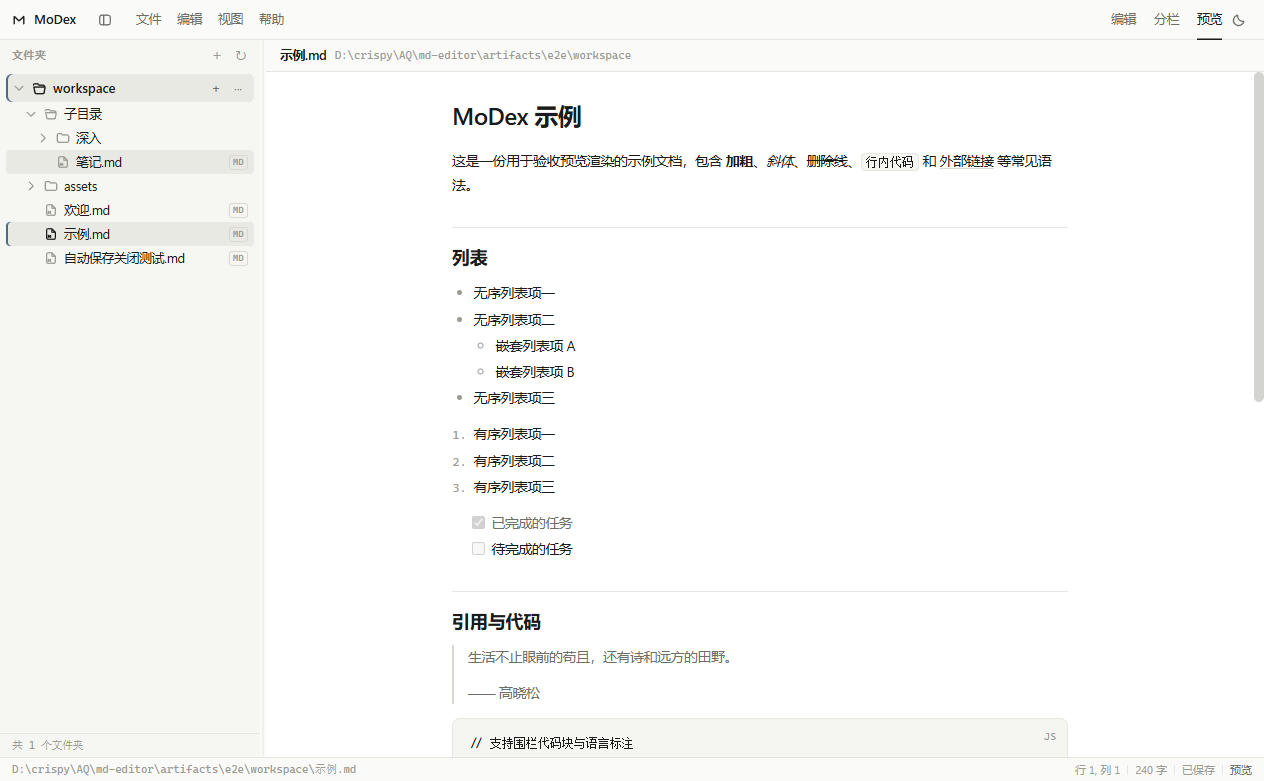
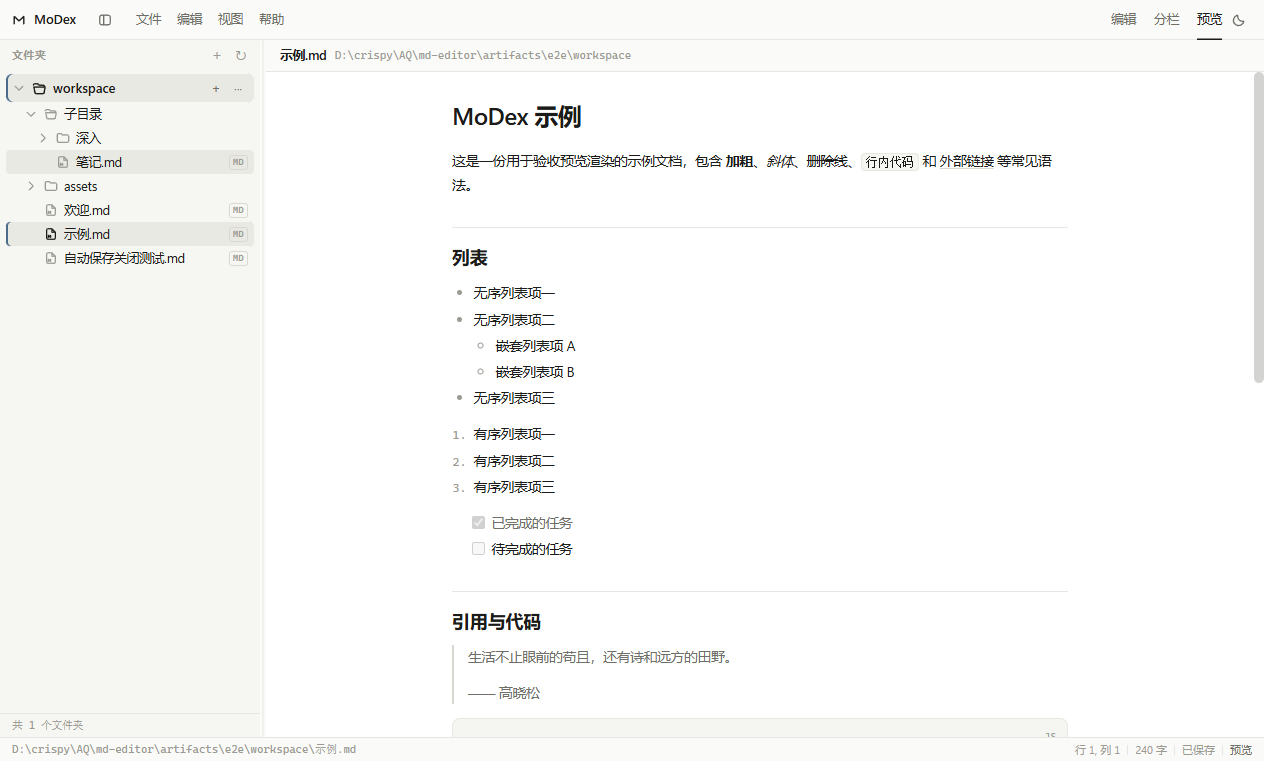
feat: 默认窗口改为 1280×800（16:10，贴近 Codex）
- CREATE_WINDOW_OPTIONS 默认尺寸 1280×820 → 1280×800，默认比例 1.56 → 1.60，与 Codex 桌面窗口截图实测比例（约 1.60）一致；最小窗口仍 900×600。\n- e2e 新增「默认窗口尺寸 1280×800（16:10）」断言（共 124 项）。\n- 同步 README / CODEX-UI-DESIGN 的窗口比例说明，并重新生成 21 张界面截图。\n- 验证：npm test 48/48；dev smoke 124/124 + 阶段二；打包 exe smoke 124/124 + 阶段二；16/16 源文件 SHA256 一致。

diff --git a/src/main/e2e.js b/src/main/e2e.js
@@ -141,6 +141,14 @@ async function runE2E({ win, cli, paths }) {
     assert('渲染层初始化完成（window.__qm.ready）', ready === true)
     step('等待渲染层就绪', { ready })
 
+    // 默认窗口尺寸：Codex 式 16:10（1280×800）；窗口尺寸持久化恢复在别处验证
+    const defaultBounds = win.getBounds()
+    assert(
+      '默认窗口尺寸 1280×800（16:10）',
+      defaultBounds.width === 1280 && defaultBounds.height === 800,
+      defaultBounds
+    )
+
     // 注入全局错误收集器
     await run(
       'inject-error-collector',

diff --git a/src/main/main.js b/src/main/main.js
@@ -314,7 +314,7 @@ function restoreWindowState(options) {
 function createWindow() {
   const options = restoreWindowState({
     width: 1280,
-    height: 820,
+    height: 800,
     minWidth: 900,
     minHeight: 600,
     show: false,

diff --git a/docs/CODEX-UI-DESIGN.md b/docs/CODEX-UI-DESIGN.md
@@ -92,6 +92,7 @@
 
 | 区域 | 尺寸 |
 | --- | --- |
+| 窗口默认尺寸 | **1280×800**（16:10，贴近 Codex 桌面窗口比例；用户调整后记忆恢复），最小 900×600 |
 | 工具栏 `#toolbar` | 高 **40px**，底部 1px `--border`，底色 `--bg`（与内容同色，靠发丝线分区） |
 | 侧栏 `#sidebar` | 宽默认 260px（沿用设置），底色 `--panel-soft`，右侧 1px `--border` |
 | 侧栏头部 | 高 30px，10.5px 大写标签，右侧 3 个 22px 图标按钮 |
